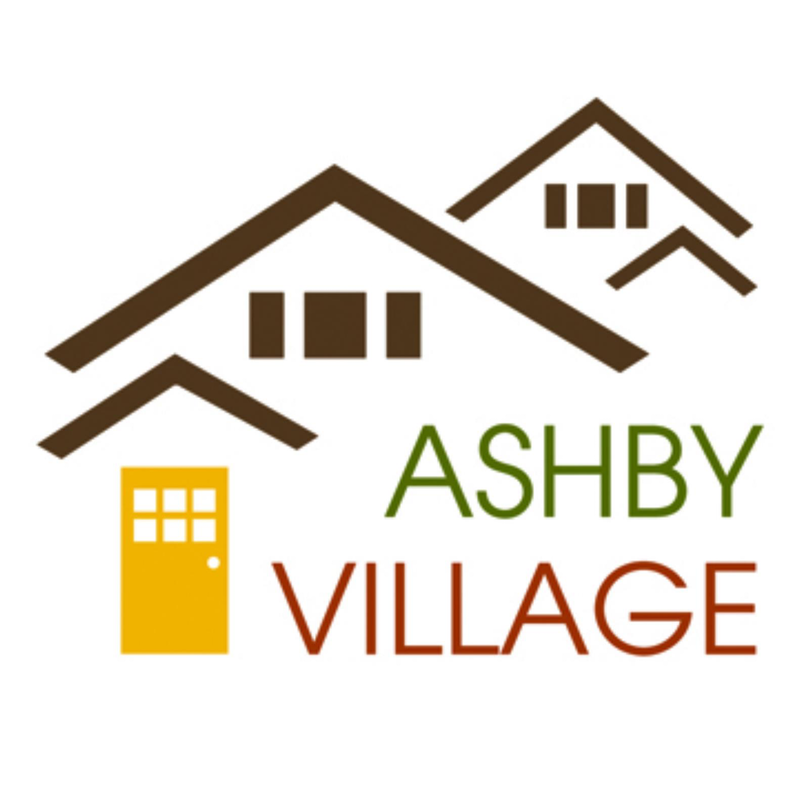
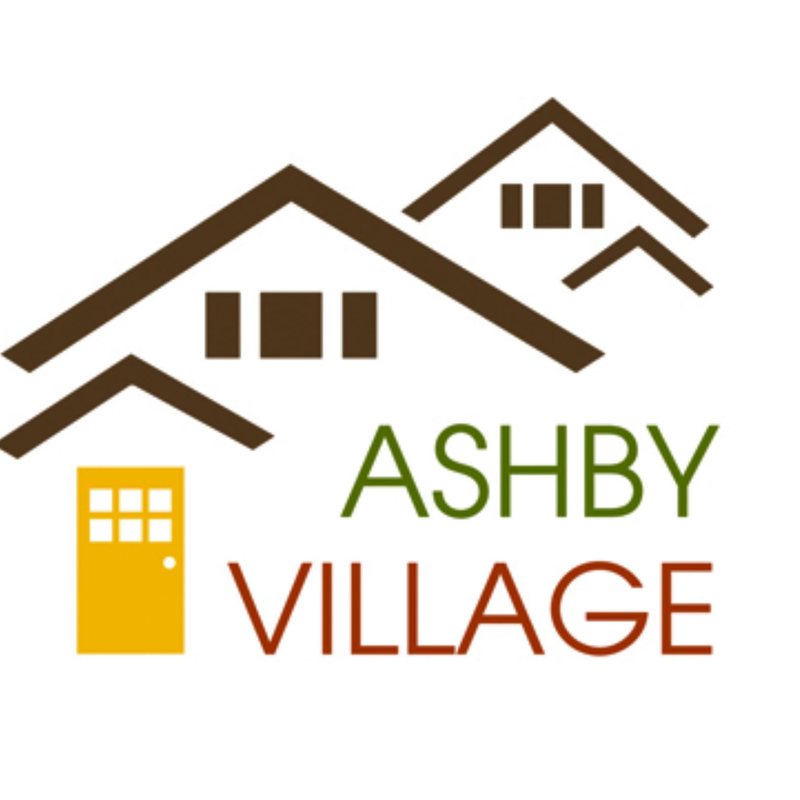
Change project bios and add pictures

Changed region(s): [[0.0, 0.125, 0.9688, 0.8438], [0.4062, 0.5312, 0.9688, 0.6562], [0.5625, 0.6875, 0.9688, 0.8438]]

diff --git a/ashbyvillage.html b/ashbyvillage.html
@@ -22,25 +22,37 @@
             </ul>
           </nav>
   </div>
-  <div class="bio">
-    <img src="images/me.png" class="profile-pic">
-    <div class="name section">
-      <h1>Daniel Ming-Xue Li</h1>
-      <h2>Student and Developer</h2>
-
-          <nav class="social-icons">
-                    <ul>
-                <li><a href="https://www.linkedin.com/in/danielmxli" target="_blank"><i class="fa fa-linkedin"></i></a></li>
-                <li><a href="https://github.com/lilshim" target="_blank"><i class="fa fa-github"></i></a></li>
-                <li><a href="mailto:danielmxli@gmail.com" target="_blank"><i class="fa fa-envelope"></i></a></li>
-                    </ul>
-                </nav>
-
+ <div class="bio">
+    <a href="http://www.ashbyvillage.org/">
+        <img src="images/ashbyvillage.png" class="portfolio-profile">
+    </a>
+    <div class="name">
+        <h1>Ashby Village</h1>
+        <h2>Web, PM</h2>
     </div>
-  </div>
+</div>
 
   <div class="about">
   <h5> Contacting me </h5>
   <br>
   <p> Email me at danielmxli@gmail.com</p>
   </div>
+
+  <div class="nav-projects">
+    <a class="prev" href="quad.html">
+      <div class="icon">
+        <i class="fa fa-arrow-left"></i>
+      </div>
+    </a>
+
+    <a class="next" href="phc.html">
+      <div class="icon">
+        <i class="fa fa-arrow-right"></i>
+      </div>
+
+    </a>
+  </div>
+
+
+</body>
+</html>

diff --git a/rescomp.html b/rescomp.html
@@ -23,24 +23,35 @@
           </nav>
   </div>
   <div class="bio">
-    <img src="images/me.png" class="profile-pic">
+    <img src="images/cal_seal.jpg" class="profile-pic">
     <div class="name section">
-      <h1>Daniel Ming-Xue Li</h1>
-      <h2>Student and Developer</h2>
-
-          <nav class="social-icons">
-                    <ul>
-                <li><a href="https://www.linkedin.com/in/danielmxli" target="_blank"><i class="fa fa-linkedin"></i></a></li>
-                <li><a href="https://github.com/lilshim" target="_blank"><i class="fa fa-github"></i></a></li>
-                <li><a href="mailto:danielmxli@gmail.com" target="_blank"><i class="fa fa-envelope"></i></a></li>
-                    </ul>
-                </nav>
-
+      <h1>UC Berkeley's Student Affairs - Information Technology</h1>
+      <h2>Lead Desktop Engineer, Network Engineering Assistant</h2>
     </div>
   </div>
 
   <div class="about">
-  <h5> Contacting me </h5>
   <br>
   <p> Email me at danielmxli@gmail.com</p>
   </div>
+
+
+  <div class="nav-projects">
+    <a class="prev" href="kloudless.html">
+      <div class="icon">
+        <i class="fa fa-arrow-left"></i>
+      </div>
+    </a>
+
+    <a class="next" href="data-visualization.html">
+      <div class="icon">
+        <i class="fa fa-arrow-right"></i>
+      </div>
+
+    </a>
+  </div>
+
+
+</body>
+</html>
+

diff --git a/phc.html b/phc.html
@@ -23,19 +23,10 @@
           </nav>
   </div>
   <div class="bio">
-    <img src="images/me.png" class="profile-pic">
+    <img src="images/phc.png" class="profile-pic">
     <div class="name section">
-      <h1>Daniel Ming-Xue Li</h1>
-      <h2>Student and Developer</h2>
-
-          <nav class="social-icons">
-                    <ul>
-                <li><a href="https://www.linkedin.com/in/danielmxli" target="_blank"><i class="fa fa-linkedin"></i></a></li>
-                <li><a href="https://github.com/lilshim" target="_blank"><i class="fa fa-github"></i></a></li>
-                <li><a href="mailto:danielmxli@gmail.com" target="_blank"><i class="fa fa-envelope"></i></a></li>
-                    </ul>
-                </nav>
-
+      <h1>Project Homeless Connect</h1>
+      <h2>Mobile</h2>
     </div>
   </div>
 
@@ -44,3 +35,24 @@
   <br>
   <p> Email me at danielmxli@gmail.com</p>
   </div>
+
+
+  <div class="nav-projects">
+    <a class="prev" href="ashbyvillage.html">
+      <div class="icon">
+        <i class="fa fa-arrow-left"></i>
+      </div>
+    </a>
+
+    <a class="next" href="kloudless.html">
+      <div class="icon">
+        <i class="fa fa-arrow-right"></i>
+      </div>
+
+    </a>
+  </div>
+
+
+</body>
+</html>
+

diff --git a/kloudless.html b/kloudless.html
@@ -23,19 +23,10 @@
           </nav>
   </div>
   <div class="bio">
-    <img src="images/me.png" class="profile-pic">
+    <img src="images/kloudless.png" class="profile-pic">
     <div class="name section">
-      <h1>Daniel Ming-Xue Li</h1>
-      <h2>Student and Developer</h2>
-
-          <nav class="social-icons">
-                    <ul>
-                <li><a href="https://www.linkedin.com/in/danielmxli" target="_blank"><i class="fa fa-linkedin"></i></a></li>
-                <li><a href="https://github.com/lilshim" target="_blank"><i class="fa fa-github"></i></a></li>
-                <li><a href="mailto:danielmxli@gmail.com" target="_blank"><i class="fa fa-envelope"></i></a></li>
-                    </ul>
-                </nav>
-
+      <h1>Kloudless</h1>
+      <h2>Web</h2>
     </div>
   </div>
 
@@ -44,3 +35,24 @@
   <br>
   <p> Email me at danielmxli@gmail.com</p>
   </div>
+
+
+  <div class="nav-projects">
+    <a class="prev" href="phc.html">
+      <div class="icon">
+        <i class="fa fa-arrow-left"></i>
+      </div>
+    </a>
+
+    <a class="next" href="rescomp.html">
+      <div class="icon">
+        <i class="fa fa-arrow-right"></i>
+      </div>
+
+    </a>
+  </div>
+
+
+</body>
+</html>
+

diff --git a/index.html b/index.html
@@ -119,7 +119,7 @@
                 <div class="table">
                     <div class="table-cell">
                         <h3>Data Visualization Framework on VR Systems</h3>
-                        <h4>(Hackathon) Mobile</h4>
+                        <h4>Mobile</h4>
                     </div>
                 </div>
             </div>
@@ -133,7 +133,7 @@
                 <div class="table">
                     <div class="table-cell">
                         <h3>MyoSurgicalSim</h3>
-                        <h4>(Hackathon) Scripts</h4>
+                        <h4>Scripts</h4>
                     </div>
                 </div>
             </div>
@@ -147,7 +147,7 @@
                 <div class="table">
                     <div class="table-cell">
                         <h3>DeNero Noises</h3>
-                        <h4>(Hackathon) Web</h4>
+                        <h4>Web</h4>
                     </div>
                 </div>
             </div>

diff --git a/data-visualization.html b/data-visualization.html
@@ -23,10 +23,10 @@
           </nav>
   </div>
   <div class="bio">
-    <img src="images/me.png" class="profile-pic">
+    <img src="images/samsung.png" class="profile-pic">
     <div class="name section">
-      <h1>Daniel Ming-Xue Li</h1>
-      <h2>Student and Developer</h2>
+      <h1>Data Visualization Framework on VR systems</h1>
+      <h2>Mobile</h2>
 
           <nav class="social-icons">
                     <ul>
@@ -44,3 +44,25 @@
   <br>
   <p> Email me at danielmxli@gmail.com</p>
   </div>
+
+
+  <div class="nav-projects">
+    <a class="prev" href="rescomp.html">
+      <div class="icon">
+        <i class="fa fa-arrow-left"></i>
+      </div>
+    </a>
+
+    <a class="next" href="myo.html">
+      <div class="icon">
+        <i class="fa fa-arrow-right"></i>
+      </div>
+
+    </a>
+  </div>
+
+
+</body>
+</html>
+
+

diff --git a/myo.html b/myo.html
@@ -23,10 +23,10 @@
           </nav>
   </div>
   <div class="bio">
-    <img src="images/me.png" class="profile-pic">
+    <img src="images/thalmic-labs.png" class="profile-pic">
     <div class="name section">
-      <h1>Daniel Ming-Xue Li</h1>
-      <h2>Student and Developer</h2>
+      <h1>MyoSurgicalSim</h1>
+      <h2>Script</h2>
 
           <nav class="social-icons">
                     <ul>
@@ -44,3 +44,23 @@
   <br>
   <p> Email me at danielmxli@gmail.com</p>
   </div>
+
+
+  <div class="nav-projects">
+    <a class="prev" href="data-visualization.html">
+      <div class="icon">
+        <i class="fa fa-arrow-left"></i>
+      </div>
+    </a>
+
+    <a class="next" href="deneronoises.html">
+      <div class="icon">
+        <i class="fa fa-arrow-right"></i>
+      </div>
+
+    </a>
+  </div>
+
+
+</body>
+</html>

diff --git a/deneronoises.html b/deneronoises.html
@@ -23,10 +23,10 @@
           </nav>
   </div>
   <div class="bio">
-    <img src="images/me.png" class="profile-pic">
+    <img src="images/denero.png" class="profile-pic">
     <div class="name section">
-      <h1>Daniel Ming-Xue Li</h1>
-      <h2>Student and Developer</h2>
+      <h1>DeNero Noises</h1>
+      <h2>Web</h2>
 
           <nav class="social-icons">
                     <ul>
@@ -44,3 +44,15 @@
   <br>
   <p> Email me at danielmxli@gmail.com</p>
   </div>
+
+
+    <div class="nav-projects">
+    <a class="prev" href="myo.html">
+      <div class="icon">
+        <i class="fa fa-arrow-left"></i>
+      </div>
+    </a>
+
+
+</body>
+</html>

diff --git a/quad.html b/quad.html
@@ -23,16 +23,14 @@
           </nav>
   </div>
  <div class="bio">
-        <a href="https://thequad.com">
-            <img src="images/quad.png" class="portfolio-profile">
-        </a>
-        <div class="name">
-            <h1>Quad</h1>
-            <h2>Web, Mobile</h2>
-        </div>
-
-
+    <a href="https://thequad.com">
+        <img src="images/quad.png" class="portfolio-profile">
+    </a>
+    <div class="name">
+        <h1>Quad</h1>
+        <h2>Web, Mobile</h2>
     </div>
+</div>
 
   <div class="about">
     <div class="collage">
